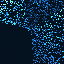
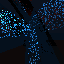
completed scene and some fixes

diff --git a/helper_classes.py b/helper_classes.py
@@ -10,8 +10,8 @@ def normalize(vector):
 # This function returns the vector that reflects from the surface
 def reflected(vector, axis):
     # done by us
-    axis = normalize(axis)
-    return vector - 2 * np.dot(vector, axis) * axis
+    n_axis = normalize(axis)
+    return vector - 2 * np.dot(vector, n_axis) * n_axis
 
 ## Lights
 class LightSource:
@@ -24,22 +24,25 @@ class DirectionalLight(LightSource):
     def __init__(self, intensity, direction):
         super().__init__(intensity)
         # done by us
-        self.direction = normalize(np.array(direction))
+        #self.direction = normalize(np.array(direction))
+        self.direction = normalize(direction)
 
     # This function returns the ray that goes from the light source to a point
     def get_light_ray(self,intersection_point):
         # done by us
-        return Ray(intersection_point, -self.direction)
+        #return Ray(intersection_point, -self.direction)
+        n_direction = normalize(self.direction)
+        return Ray(intersection_point, n_direction)
 
     # This function returns the distance from a point to the light source
     def get_distance_from_light(self, intersection):
         # done by us
-        return np.inf # Distance is considered infinite for directional light
+        return np.inf
 
     # This function returns the light intensity at a point
     def get_intensity(self, intersection):
         # done by us
-        return self.intensity # Intensity is the same for all points in the scene in directional light 
+        return self.intensity 
 
 
 class PointLight(LightSource):
@@ -68,8 +71,10 @@ class SpotLight(LightSource):
     def __init__(self, intensity, position, direction, kc, kl, kq):
         super().__init__(intensity)
         # done by us
-        self.position = np.array(position)
-        self.direction = normalize(np.array(direction))
+        #self.position = np.array(position)
+        self.position = position
+        #self.direction = normalize(np.array(direction))
+        self.direction = np.array(direction)
         self.kc = kc
         self.kl = kl
         self.kq = kq
@@ -86,7 +91,11 @@ class SpotLight(LightSource):
     def get_intensity(self, intersection):
         # done by us
         d = self.get_distance_from_light(intersection)
-        return self.intensity / (self.kc + self.kl*d + self.kq * (d**2))
+        v = normalize(self.direction)
+        v_d = self.get_light_ray(intersection).direction
+        v_vd_dot = np.dot(v, v_d)
+
+        return (self.intensity * v_vd_dot) / (self.kc + self.kl*d + self.kq * (d**2))
 
 
 class Ray:
@@ -173,8 +182,8 @@ class Triangle(Object3D):
             edge_ba = self.b - self.a
             edge_ca = self.c - self.a
             triangle_area = np.linalg.norm(np.cross(edge_ba,edge_ca)) /2
-            alpha = np.linalg.norm(np.cross((self.b - P), (self.c - P))/ 2 * triangle_area)
-            beta = np.linalg.norm(np.cross((self.b - P), (self.c - P))/ 2 * triangle_area)
+            alpha = (np.linalg.norm(np.cross((self.b - P), (self.c - P)))) / (2 * triangle_area)
+            beta = (np.linalg.norm(np.cross((self.b - P), (self.c - P)))) / (2 * triangle_area)
             gamma = 1 - alpha - beta
             if (0 <= alpha <= 1) and (0 <= beta <= 1) and (0 <= gamma <= 1) and (alpha + beta + gamma == 1):
                 return (t, self)

diff --git a/hw3.py b/hw3.py
@@ -109,44 +109,41 @@ def construct_reflective_ray(ray, p, object):
 # Write your own objects and lights
 # TODO
 def your_own_scene():
-    camera = np.array([0,0,1])
-    lights = []
-    objects = []
+    camera = np.array([0, 0, 1])
+    
+    # Lights
+    lights = [
+        DirectionalLight(intensity=1.0, direction=[1, -1, -0.5]),
+        PointLight(intensity=0.5, position=[2, 2, 5], kc=1, kl=0.1, kq=0.01)
+    ]
+    
+    # Objects
+    plane = Plane(normal=[0, 1, 0], point=[0, -1, 0])
+    sphere = Sphere(center=[0, 0, 3], radius=1)
+    pyramid = Pyramid(v_list=[[-1, 0, 2], [1, 0, 2], [0, 0, 4], [0, 2, 3], [0, -2, 3]])
+    
+    pyramid.set_material(
+        ambient=[0.1, 0.1, 0.1], 
+        diffuse=[0.6, 0.7, 0.8], 
+        specular=[0.5, 0.5, 0.5], 
+        shininess=50, 
+        reflection=0.5
+    )
+    sphere.set_material(
+        ambient=[0.1, 0.1, 0.1], 
+        diffuse=[1, 0, 0], 
+        specular=[1, 1, 1], 
+        shininess=100, 
+        reflection=0.3
+    )
+    plane.set_material(
+        ambient=[0.1, 0.1, 0.1], 
+        diffuse=[0.3, 0.4, 0.5], 
+        specular=[0.2, 0.2, 0.2], 
+        shininess=10, 
+        reflection=0.1
+    )
 
-    # done by us:
-
-    directional_light = DirectionalLight(intensity= np.array([0.7, 0.7, 0.7]),direction=np.array([0, 0, 1]))
-    spotlight_a = SpotLight(np.array([1, 5, 0]), np.array([-2, -0.25, -2]), np.array([0, 1, -1]),0.1, kl=0.05, kq=0.05)
-    spotlight_b = SpotLight(intensity=np.array([3, 0, 3]), position=np.array([1, -0.25, 1]), direction=np.array([1, 1, -1]), kc=0.1, kl=0.05, kq=0.05)
-
-    lights = [directional_light, spotlight_a, spotlight_b]
-
-    sphere = Sphere([0, 1, -1], 0.3)
-    sphere.set_material([0.2, 0.2, 0.2], [0.2, 0.2, 0.2], [0.5, 0.5, 0.5], 750, 1)
-
-    background = Plane([0, 0, 1], [0, 0, -3])
-    background.set_material([0, 0, 0], [0.5, 0.1, 0.5], [0.1, 0.1, 0.1], 0, 0)
-
-    objects = [sphere, background]
-
-    n_tiles = 4
-    for i in range(-n_tiles, n_tiles):
-        for j in range(-n_tiles, n_tiles):
-            # First triangle of the square tile
-            triangle1 = Triangle([i, -0.5, j], [i, -0.5, j + 1], [i + 1, -0.5, j + 1])
-            # Second triangle of the square tile
-            triangle2 = Triangle([i, -0.5, j], [i + 1, -0.5, j + 1], [i + 1, -0.5, j])
-
-            # Set materials based on a checker pattern
-            if (i + j) % 2 == 0:
-                triangle1.set_material([1, 0, 0], [1, 0, 0], [0.2, 0.2, 0.2], 50, 0.1)
-                triangle2.set_material([1, 0, 0], [1, 0, 0], [0.2, 0.2, 0.2], 50, 0.1)
-            else:
-                triangle1.set_material([0, 0, 1], [0, 0, 1], [0.2, 0.2, 0.2], 50, 0.1)
-                triangle2.set_material([0, 0, 1], [0, 0, 1], [0.2, 0.2, 0.2], 50, 0.1)
-
-            objects.append(triangle1)
-            objects.append(triangle2)
-
-
+    objects = [plane, sphere, pyramid]
+    
     return camera, lights, objects
